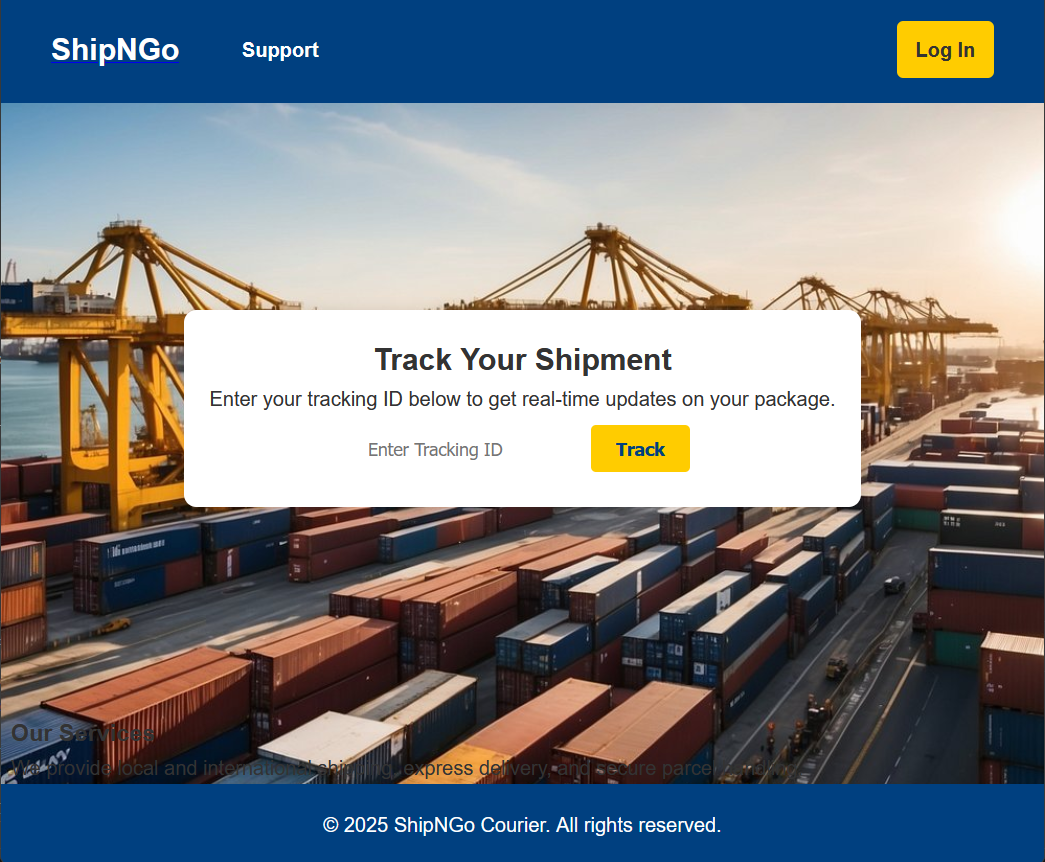
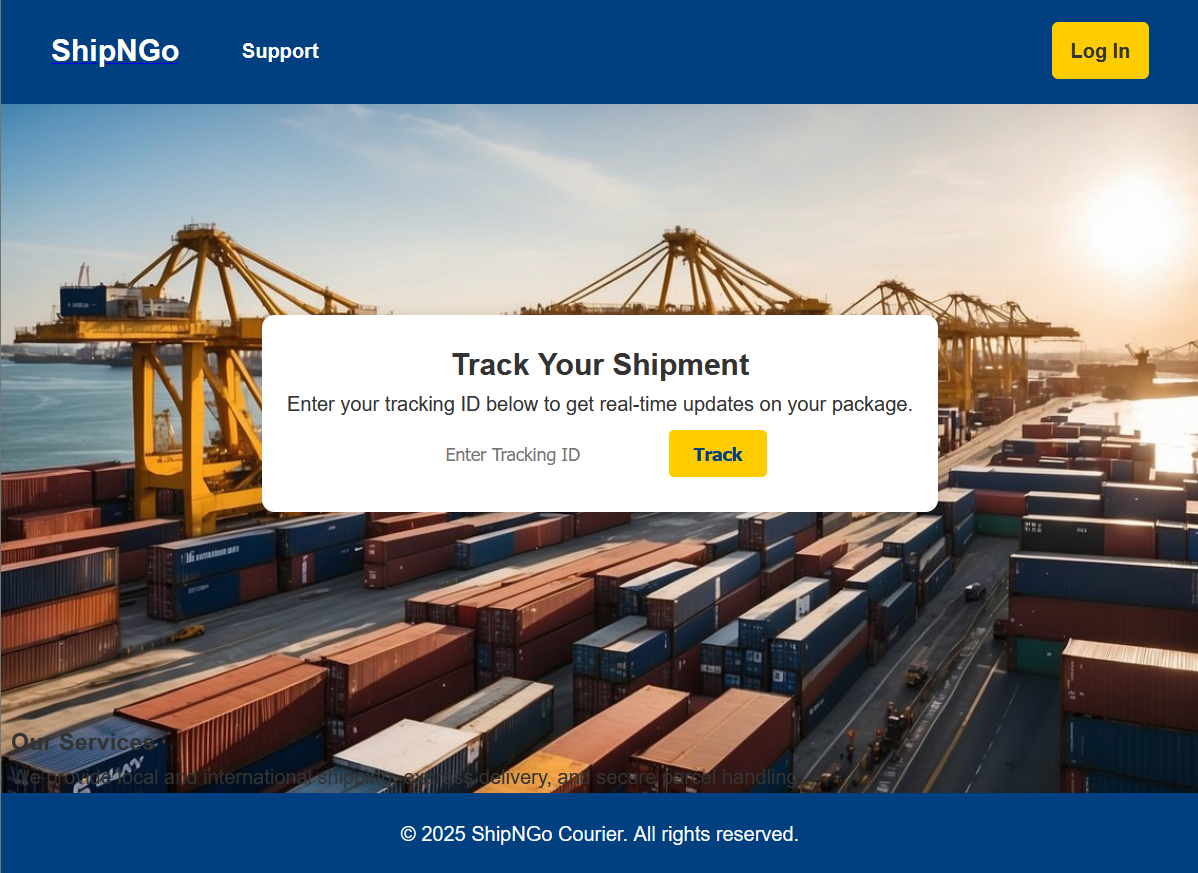
Fixed bug with the color wheel input and added new image for Post Office Project

diff --git a/portfolio/src/app/page.js b/portfolio/src/app/page.js
@@ -58,6 +58,12 @@ export default function Home() {
     setBgInput(savedBg ?? themes[savedIndex].bg)
     setError('')
   }, [])
+
+  useEffect(() => {
+    setFgInput(activeFg)
+    setBgInput(activeBg)
+    setError('')
+  }, [activeFg, activeBg])
  
 
   useEffect(() => {
@@ -113,10 +119,6 @@ export default function Home() {
       setRandomFg(fgInput)
       setRandomBg(bgInput)
     }
-
-      setError('')
-      setFgInput(activeFg)
-      setBgInput(activeBg)
   }
 
   return (
@@ -261,7 +263,7 @@ export default function Home() {
               </div>
               <a href="https://github.com/SamuelAlvarez690/ShipNGo" target="_blank" className="text-3xl flex items-center gap-[8px] w-[120px] px-[10px] mx-[40px] outline-[3px] border-white rounded-lg"><i className="devicon-github-original"></i>GitHub</a>
             </div>
-            <img src="/ShipNGo_Application.png" className="rounded-tr-lg rounded-br-lg"></img>
+            <img src="/ShipNGo_Application.png" className="w-[487px] rounded-tr-lg rounded-br-lg"></img>
           </div>
         </div>
       </section>

diff --git a/portfolio/src/app/components/ColorWheel.jsx b/portfolio/src/app/components/ColorWheel.jsx
@@ -11,7 +11,7 @@ export default function ColorWheel({ themes, setIndex, handleRandom }) {
     const x2 = 20 + 18 * Math.cos(endAngle)
     const y2 = 20 + 18 * Math.sin(endAngle)
 
-    const d = `M20, 20 L${x1},${y1} A18,18 0 0,1 ${x2},${y2} Z`
+    const d = `M20,20 L${x1},${y1} A18,18 0 0,1 ${x2},${y2} Z`
 
     return (
       <path
